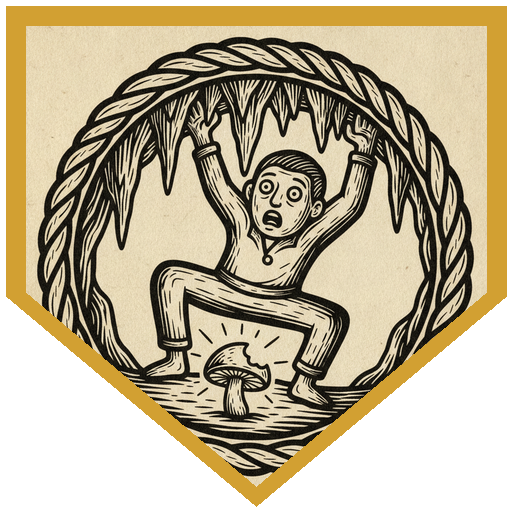
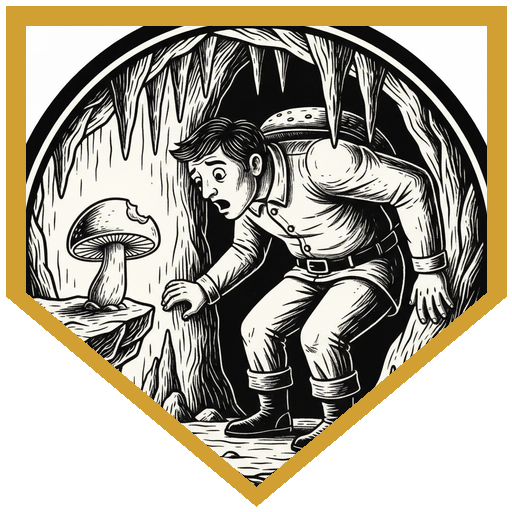
Rewrite the Eat Me badge so the mushroom is on a ledge, not in a suggestive pose.

diff --git a/rpg/pandodnd/public/sessions/2026-09-09.md b/rpg/pandodnd/public/sessions/2026-09-09.md
@@ -31,7 +31,7 @@ players:
 image_prompt:
   - "a kenku in a dark cloak furiously scribbling in a ledger while swaggering city guards in flaming-fist armor loom over a nervous merchant on a dock, circular badge format, no text"
   - "a triton warrior holding out a heavy sack of gold coins to two armored city guards on a forest road, circular badge format, no text"
-  - "a surprised adventurer shooting upward to giant height in a dim cave, head nearly hitting the stalactites, a small glowing mushroom with one bite taken out of it lying on the cave floor beside him, circular badge format, no text"
+  - "side view of a surprised adventurer already grown giant in a cave, standing upright and ducking under stalactites, a bitten glowing mushroom sitting on a rock ledge to the left well away from his body, circular badge format, no text"
   - "adventurers placing huge peacock eggs back into a nest as a shadowy druid woman watches from darkness, circular badge format, no text"
   - "a dwarf monk delivering a careful nonlethal punch to a house-sized peacock that collapses without blood, mushrooms dissolving around fallen guards, circular badge format, no text"
 ---
